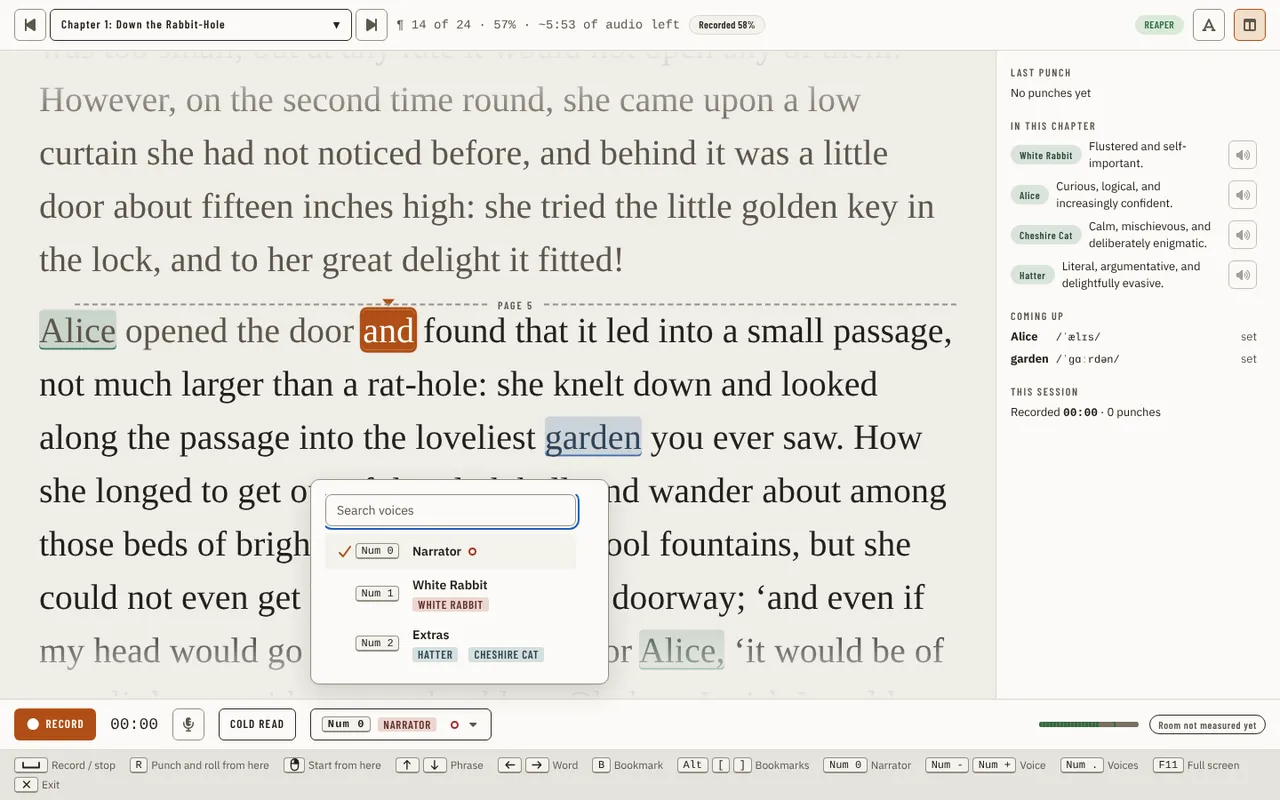
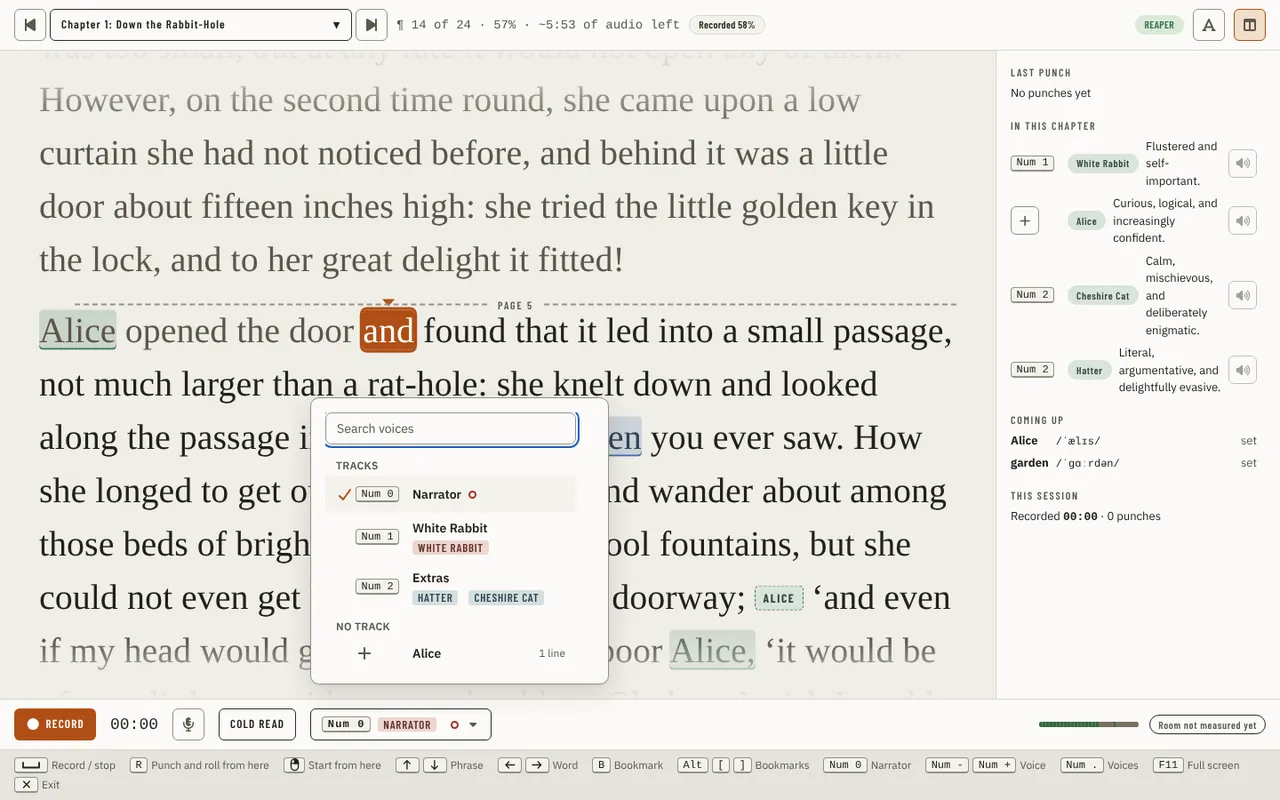
test(booth): pin stop-then-add in the harness and real REAPER; guide, catalog and decision C
Refs #2839

Claude-Session: https://claude.ai/code/session_01EBTykfDm4tMvg2DQjdoWjd

Changed region(s): [[0.7812, 0.1562, 1.0, 0.6562], [0.0312, 0.5, 0.5, 0.8438], [0.4688, 0.7188, 0.75, 0.8438]]

diff --git a/src/studio/ui/src/api/mockApi.ts b/src/studio/ui/src/api/mockApi.ts
@@ -4,6 +4,7 @@
 //
 // Each feature area's bindings live in their own file under mockHost/ (the state they share is mockHost/state.ts);
 // this file only puts them together, with the per-feature mocks beside it (teleprompterMock.ts, coverageMock.ts, ...).
+import type { GuideDialogueCue } from './contracts/storyBible';
 import type { Finding, ManuscriptParagraph, MeasureFileResult, NarrationApi } from '../types';
 import { WIRE_FINDINGS, WIRE_TELEPROMPTER_DEVICES, WIRE_TRACKS_PROJECT } from './mockFixtures';
 import { mockChapterTrackMatch } from './chapterTrackMatchMock';
@@ -172,7 +173,14 @@ export function createMockApi(
     initial.settings,
   );
   const manuscript = createManuscriptMock(s, initial, { withMeasurement: (chapter) => withMeasurement(chapter) });
-  const { manuscriptReady, hasImported: manuscriptImported } = manuscript;
+  const { manuscriptReady: textReady, hasImported: manuscriptImported } = manuscript;
+  // A Voice folders project's Chapter 1 also has a line Alice speaks, and no voice records her: the Booth's "No track" row and the
+  // speaker "Who is in Num N?" ticks (#2839). The cue is placed in the loaded text, so the manuscript is ready only once it is in.
+  const manuscriptReady = initial.voiceFolders
+    ? textReady.then(() => {
+        s.dialogueCues = [...s.dialogueCues, ...aliceSpeaks(s.paragraphs)];
+      })
+    : textReady;
   const credits = createCreditsMock(s, initial, { settings: settings.settings, manuscriptReady });
   // Every read of the chapter list holds the credits (a credits file is a chapter): the Production overview, the pages and the host agree.
   const chaptersWithCredits = async () => credits.withCreditsChapters(await manuscript.bindings.manuscriptChapters());
@@ -1041,4 +1049,28 @@ function createBackupsMock(daw: DawCapabilitiesApi, hasChapter: (chapterId: stri
     },
     dawBackups: () => Promise.resolve({ schemaVersion: 1, backups: table.list() }),
   };
+}
+
+/** Alice's "and even if my head would go through," in Chapter 1, attributed to her, as a cue the Booth reads as one line. */
+function aliceSpeaks(paragraphs: readonly ManuscriptParagraph[]): GuideDialogueCue[] {
+  const words = 'and even if my head would go through,';
+  const paragraph = paragraphs.find((each) => each.chapterId === 'chapter-1' && each.text.includes(words));
+  if (!paragraph) return [];
+  // The quotation marks around the words, whichever the text uses.
+  const start = paragraph.text.indexOf(words) - 1;
+  const quote = paragraph.text.slice(start, start + words.length + 2);
+  return [
+    {
+      id: 'cue-voices-alice',
+      chapterId: 'chapter-1',
+      paragraphId: paragraph.id,
+      quote_start: start,
+      quote_end: start + quote.length,
+      quote_text: quote,
+      speaker_entity_id: 'alice',
+      speaker_source: 'tag',
+      evidence: { chapterId: 'chapter-1', paragraphId: paragraph.id, excerpt: quote, tag: 'thought poor Alice' },
+      corrected: false,
+    },
+  ];
 }

diff --git a/src/studio/ui/src/interactionFeedback/teleprompter.ts b/src/studio/ui/src/interactionFeedback/teleprompter.ts
@@ -10,6 +10,10 @@ export const teleprompterFeedback: Record<string, FeedbackRow> = {
   'src/components/booth/voices/useBoothVoices.ts::boothVoiceGet#1': row('effect', 'file-io', 'na', 'na', 'ui', 'toast', 'na', 'ok', 'The voice the host records the chapter on, read with the tracks and again after a take stops, so the control shows the host\'s voice and not one the page assumed; a failed read is a toast and the voices are still listed.'),
   'src/components/booth/voices/useBoothVoices.ts::readAloudReaperState#1': row('effect', 'instant', 'na', 'na', 'ui', 'inline', 'na', 'ok', 'REAPER\'s arms on the chapter\'s voice, read with the voices, after a choice and when a take starts or stops, for the voice control\'s arm dot and its several-armed warning; a failed read shows neither, so no stale arm state is given as fact.'),
   'src/components/booth/voices/useBoothVoices.ts::boothVoiceSet#1': row('click', 'file-io', 'pending', 'pending', 'ui', 'toast', 'na', 'ok', 'A voice key, Num + or Num −, or a press in the voice list: the control is busy until the host answers, and a press meanwhile is sent once it does (the last one wins); during a take the DAW switches the recording (about 50 ms), and a refusal is a toast that keeps the voice.'),
+  // "Who is in Num N?" (phase 5, #2839; src/studio/desktop/boothvoiceadd.go)
+  'src/components/booth/voices/useBoothVoices.ts::boothVoiceAdd#1': row('click', 'file-io', 'pending', 'pending', 'ui', 'toast', 'na', 'ok', 'The dialog\'s Add track: the button is busy until the host answers (REAPER adds the track in one undo point); the new voice is then listed and chosen and the dialog closes, and a refusal is a toast that keeps the dialog open with what was typed.'),
+  'src/components/booth/voices/useBoothVoices.ts::voiceTracksGet#1': row('effect', 'file-io', 'na', 'na', 'ui', 'toast', 'na', 'ok', 'The voice setup read again after a track was added, so its characters show on the new voice; a failed read is a toast that says the track was added.'),
+  'src/components/booth/voices/useBoothVoices.ts::voiceTracksSetCharacters#1': row('click', 'file-io', 'pending', 'pending', 'ui', 'toast', 'na', 'ok', 'The dialog\'s Use this track: the ticked characters are added to the track\'s and it is chosen; the button is busy until both answer, and a refusal is a toast that keeps the dialog open.'),
   // The reading session core is `useTeleprompterSession`, mounted by the Booth page and the Companion host.
   // booth/passagemap/usePassageMapWriter.ts: the marks of a take are sent once, at stop; a refused run is kept, toasted once and sent again at the next stop or flush.
   // booth/pickups/usePickupSession.ts: the pickup session (SN-O82), opened from Pickups at a pickup.

diff --git a/src/studio/ui/tests/visual/catalog/booth.ts b/src/studio/ui/tests/visual/catalog/booth.ts
@@ -22,8 +22,22 @@ export const boothStates: StateEntry[] = [
     page: 'booth',
     state: 'voices-list',
     description:
-      "Booth's voice list open from the voice control (?mockVoiceFolders=1, Num . or a press): a search box over the folder's voices in REAPER's order with their keys, Narrator (checked, the voice the take records on), White Rabbit (its character by name) and Extras (Hatter and Cheshire Cat, assigned)",
+      "Booth's voice list open from the voice control (?mockVoiceFolders=1, Num . or a press): a search box over the folder's voices in REAPER's order with their keys, Narrator (checked, the voice the take records on), White Rabbit (its character by name) and Extras (Hatter and Cheshire Cat, assigned), then under No track the chapter's speakers no voice records, each with its lines (#2839)",
     ...POPUP_ANCHORED_AT_FIRST_WIDTH,
+    ...REFLOW,
+  },
+  {
+    page: 'booth',
+    state: 'voices-who-is-in',
+    description:
+      "Booth's \"Who is in Num 7?\" (?mockVoiceFolders=1, Num 7 pressed with three voices, #2839): how to record them (A new track, its key Num 3; An existing track; The Narrator, this time, Num 0), the chapter's characters with their lines or their key and the speakers with no track ticked, the rest of the book in its own capped group, and the track name (the one character's, or Extras); Cancel and Add track",
+    ...REFLOW,
+  },
+  {
+    page: 'booth',
+    state: 'voices-who-records',
+    description:
+      'Booth\'s "Who records …?" for a character with no track (?mockVoiceFolders=1, a "No track" row picked in the voice list while stopped): the same three answers for that one character, the new track named after it; Cancel and Add track',
     ...REFLOW,
   },
   {

diff --git a/src/studio/ui/src/components/booth/voices/WhoIsInDialog.tsx b/src/studio/ui/src/components/booth/voices/WhoIsInDialog.tsx
@@ -73,7 +73,7 @@ function CharacterGroup({
       <div
         role="group"
         aria-label={label}
-        className="flex max-h-[11rem] flex-col gap-2 overflow-auto rounded-[var(--radius-button)] border border-[var(--line)] p-2"
+        className="flex max-h-[11rem] flex-col gap-2 overflow-auto rounded-[var(--radius-button)] border border-[var(--border)] p-2"
       >
         {characters.map((character) => (
           <CharacterRow key={character.id} character={character} ticked={ticked.has(character.id)} onTick={(next) => onTick(character.id, next)} />
@@ -100,7 +100,7 @@ export function WhoIsInDialog({ ask, voices, cast, onAdd, onUse, onNarrator, onC
   const tickedCharacters = everyone.filter((character, at) => ticked.has(character.id) && everyone.findIndex((each) => each.id === character.id) === at);
   // The name follows the ticks until the narrator types one.
   const [typed, setTyped] = useState<string | null>(null);
-  const name = typed ?? defaultTrackName(tickedCharacters);
+  const name = typed ?? defaultTrackName(tickedCharacters, voices);
   const [existing, setExisting] = useState(others[0]?.guid ?? '');
   const [busy, setBusy] = useState(false);
 
@@ -202,7 +202,7 @@ export function WhoIsInDialog({ ask, voices, cast, onAdd, onUse, onNarrator, onC
             <CharacterGroup label="Elsewhere in the book" characters={cast.elsewhere} ticked={ticked} onTick={tick} />
           </>
         ) : null}
-        {choice === 'new' ? <Field label="Track name" value={name} onChange={setTyped} error={nameProblem} /> : null}
+        {choice === 'new' ? <Field label="Track name" value={name} onChange={setTyped} error={nameProblem} autoFocus /> : null}
       </form>
     </Dialog>
   );

diff --git a/src/studio/ui/tests/visual/drivers/booth.ts b/src/studio/ui/tests/visual/drivers/booth.ts
@@ -126,6 +126,22 @@ export const boothDrivers: Record<string, Driver> = {
       .getByRole('option', { name: /Extras/ })
       .waitFor();
   },
+  'voices-who-is-in': async (page) => {
+    await readyToRecord(page, '?mockVoiceFolders=1');
+    await page.getByRole('button', { name: /^Voice:.*Narrator/ }).waitFor();
+    await page.keyboard.press('Numpad7');
+    await page.getByRole('dialog', { name: 'Who is in Num 7?' }).getByRole('textbox', { name: 'Track name' }).waitFor();
+  },
+  'voices-who-records': async (page) => {
+    await readyToRecord(page, '?mockVoiceFolders=1');
+    await page.getByRole('button', { name: /^Voice:.*Narrator/ }).click();
+    const list = page.getByRole('listbox', { name: 'Voices of this chapter' });
+    await list.getByRole('option').last().click();
+    await page
+      .getByRole('dialog', { name: /^Who records / })
+      .getByRole('textbox', { name: 'Track name' })
+      .waitFor();
+  },
   // The mixed manuscript's second chapter has a title and no subtitle, its third a subtitle long enough to wrap (applyMixedManuscriptMock).
   'heading-title-only': async (page) => {
     await openHeadings(page, 'A Message from the Author');

diff --git a/src/studio/ui/src/components/booth/voices/whoIsIn.ts b/src/studio/ui/src/components/booth/voices/whoIsIn.ts
@@ -57,9 +57,15 @@ export function keyForNewTrack(voices: readonly Voice[], name: string): string {
   return next <= 9 ? String(next) : '';
 }
 
-/** A new track's name: the character's when one is ticked, else "Extras" (the mock's shared track). */
-export function defaultTrackName(ticked: readonly Named[]): string {
-  return ticked.length === 1 && ticked[0].name.trim() !== '' ? ticked[0].name.trim() : 'Extras';
+/** A new track's name: the character's when one is ticked, else "Extras" (the mock's shared track), numbered past the names the chapter's
+ * voices have ("Extras 2"), so the default is never a name the folder already has. */
+export function defaultTrackName(ticked: readonly Named[], voices: readonly Pick<Voice, 'name'>[] = []): string {
+  const base = ticked.length === 1 && ticked[0].name.trim() !== '' ? ticked[0].name.trim() : 'Extras';
+  const taken = (name: string) => voices.some((voice) => same(voice.name, name));
+  if (!taken(base)) return base;
+  let n = 2;
+  while (taken(`${base} ${n}`)) n += 1;
+  return `${base} ${n}`;
 }
 
 /**

diff --git a/src/studio/ui/src/components/booth/voices/whoIsIn.test.ts b/src/studio/ui/src/components/booth/voices/whoIsIn.test.ts
@@ -86,6 +86,13 @@ describe('who is in it', () => {
     ).toBe('Extras');
   });
 
+  it('the default name is numbered past the names the chapter has, whatever their case and spaces', () => {
+    const named = [voice('2', ' extras '), voice('3', 'Extras 2'), voice('4', 'King of Hearts')];
+    expect(defaultTrackName([], named)).toBe('Extras 3');
+    expect(defaultTrackName([{ id: 'king', name: 'King of Hearts' }], named)).toBe('King of Hearts 2');
+    expect(defaultTrackName([{ id: 'cook', name: 'Cook' }], named)).toBe('Cook');
+  });
+
   it("an added voice the saved project lacks is the folder's last child; once saved it is listed once", () => {
     const tracks = [
       track('{F}', 'Chapter 1', 0, true),

diff --git a/src/studio/ui/src/api/mockHost/storyBible.ts b/src/studio/ui/src/api/mockHost/storyBible.ts
@@ -311,7 +311,11 @@ export function createStoryBibleMock(
         return setPronunciation(prior, { ...prior.alternate, chosen: true });
       });
     },
-    guideDialogueCues: async () => wireClone(s.dialogueCues),
+    guideDialogueCues: async () => {
+      // The cues are placed in the loaded text: a read before it is in waits for it, as the host reads cues of the manuscript it has.
+      await manuscriptReady;
+      return wireClone(s.dialogueCues);
+    },
     guideAttributeSpeakers: async () => {
       // The tag names the speaker, as the host's attribution reads it; a confirmed or edited line is never touched.
       const named = (tag: string) =>

diff --git a/src/studio/ui/src/components/booth/voices/useBoothVoices.ts b/src/studio/ui/src/components/booth/voices/useBoothVoices.ts
@@ -245,7 +245,7 @@ export function useBoothVoices({
         await voiceTracks
           .voiceTracksGet()
           .then(replace)
-          .catch(() => setRevision((count) => count + 1));
+          .catch((reason: unknown) => notify(`The track was added, but its characters could not be read back: ${describeApiError(reason)}`, 'error'));
         setRevision((count) => count + 1);
         return true;
       } catch (reason: unknown) {

diff --git a/scripts/ci/real-reaper/scenarios_booth_voices.py b/scripts/ci/real-reaper/scenarios_booth_voices.py
@@ -697,3 +697,45 @@ def track_create_in_folder(env: Env) -> str:
     stale = env.send("track_create", "Ghost", "{00000000-0000-4000-8000-0000000000DE}", until={"TRACK_CREATED", "TRACK_STALE"})
     assert stale[-1][0] == "TRACK_STALE" and len(structure(env)) == count + 1, f"stale parent answered {stale}"
     return f"created at index {created[3]}, undo {undo!r}; after save and reload {[(r['name'], r['delta']) for r in rows]}; ISBUS {isbus_lines(env)}; Veyra input {veyra['input']}; a gone parent answered TRACK_STALE and added nothing"
+
+
+@scenario(
+    "booth_voices",
+    "record_stop, track_create",
+    "voices phase 5 (#2839): a key with no track during a take. track_create is refused while REAPER records; the Booth stops the take with "
+    "record_stop (the take is kept as an item on its voice) and only then adds the voice as the folder's last child, a second undo point: "
+    "undoing it takes the new track and leaves the take",
+    needs_audio=True,
+)
+def voice_added_after_stop(env: Env) -> str:
+    g = folder_book(env)
+    env.lua("reaper.SetEditCurPos(2, false, false) return true")
+    env.ok("arm_only", g["Narrator"], until="ARMED")
+    env.ok("record_start", g["Narrator"], until="RECORD_STARTED")
+    env.wait_for(lambda: position(env) > 3.2, timeout=8, what="the take to run over a second")
+    count = len(structure(env))
+    refused = env.refused("track_create", "King of Hearts", g["Chapter 3"], until="TRACK_CREATED")
+    assert "recording" in refused[2].lower() and len(structure(env)) == count, f"an add during the take answered {refused}"
+    env.ok("record_stop", until="RECORD_STOPPED")
+    env.wait_for(lambda: play_state(env) == 0, what="REAPER to stop")
+    taken = per_track(settled_items(env, 1))
+    assert list(taken) == ["Narrator"] and len(taken["Narrator"]) == 1, f"items per track after the stop {taken}"
+    created = env.ok("track_create", "King of Hearts", g["Chapter 3"], until="TRACK_CREATED")
+    assert created[3:5] == ["4", "King of Hearts"], f"created {created}"
+    shape = [(r["name"], r["delta"], r["parent"]) for r in structure(env)]
+    assert shape == [
+        ("Chapter 3", 1, ""),
+        ("Narrator", 0, "Chapter 3"),
+        ("Veyra", 0, "Chapter 3"),
+        ("Drone", 0, "Chapter 3"),
+        ("King of Hearts", -1, "Chapter 3"),
+        ("Chapter 4", 0, ""),
+    ], shape
+    assert per_track(env.snapshot()["items"]) == taken, "adding the voice moved or dropped the take"
+    undo = env.lua("return reaper.Undo_CanUndo2(0) or ''")
+    env.lua("reaper.Undo_DoUndo2(0) return true")
+    after_undo = [r["name"] for r in structure(env)]
+    assert after_undo == ["Chapter 3", "Narrator", "Veyra", "Drone", "Chapter 4"], after_undo
+    kept = per_track(env.snapshot()["items"])
+    assert kept == taken, f"undoing the add took the take too: {kept}"
+    return f"refused during the take {refused[2]!r}; take {taken}; added {shape}; undo {undo!r} left {after_undo} and the take {kept}"

diff --git a/docs/prds/booth-voice-tracks.prd.md b/docs/prds/booth-voice-tracks.prd.md
@@ -94,7 +94,7 @@ No new trust boundary: `voice-tracks.json` is written and read back by the host 
 | 2 | Union reads | `chapter_track_state` children; Editing play solos the folder; live items, word times, recording check read the union | 2a complete (#2783: bridge, Editing play, live items, word times); 2b pending (recording check from the saved project) | with 3 | 1 |
 | 3 | Layout and assignments | `voice-tracks.json` (layout and assignments), folder links, Engine Voices card, nested `track_create` | 3a complete (#2791, nested `track_create`); 3b and 3c in review (#2799) | with 2 | 1 |
 | 4 | Booth voices | Catalog rows, voice control and list, `switch_voice`, stop-guard fix, the no-track rule for a key (its notice and dialog are phase 5) | 4a complete (#2811: `switch_voice` in the bridge, stop-guard fix); 4b in review (the Booth's keys, control and list, `BoothVoiceSet`) | no | 2, 3 |
-| 5 | Who is in it | The dialog on an empty key, making a chapter's missing tracks, the Voices card's "No track" row and its make-track press, the side list's voice keys and add-track press (decision B), the record control's notice for a character with no track (decision 5) and its after-stop offers, `BoothVoices` | pending | no | 4 |
+| 5 | Who is in it | The dialog on an empty key, stopped or recording (a take is stopped first, #2839), making a chapter's missing tracks, the Voices card's "No track" row and its make-track press, the side list's voice keys and add-track press (decision B), the record control's notice for a character with no track (decision 5) and its after-stop offers, `BoothVoices` | 5a in review (#2839: the dialog, the stop before it, `BoothVoiceAdd`, the voice list's "No track" rows, the side list's keys and add-track press, the notice and its after-stop offers); the Voices card's "No track" row pending | no | 4 |
 
 ### Phase details
 
@@ -110,6 +110,8 @@ Each phase follows the CLAUDE.md workflow: harness test first for each bridge ch
 Phase 3 as built (#2799): the layout is kept in `voice-tracks.json` with the assignments it governs, not in `settings.json`. The layout switch is Chapter sync's Layout row, as the mock draws it; while Chapter sync draws nothing (consent not yet given) the Voices card carries it. The Voices card's "No track" row and `BoothVoices` move to phase 5, with the make-track press that needs them.
 
 Phase 4 as built: the Booth records a folder-linked chapter on its chosen voice, the track named Narrator until the narrator chooses another, and the host remembers the choice per chapter until the app closes or another project opens. `BoothVoiceSet(chapterId, trackGuid)` chooses a voice, refused unless the GUID is a direct child of the chapter's folder; during a take this app started it sends `switch_voice`. `BoothVoiceGet(chapterId)` reads the voice the host records on, so the control never shows a voice the page assumed, and `ReadAloudReaperState` reads REAPER's arms on that voice rather than the folder: the control's arm dot and its several-armed warning come from that read (during the app's own take, from the start and switch answers). The voice list is built in the page from the tracks, the links and the Story Bible, as the Voices card is; `BoothVoices` and its `unmatched` list stay in phase 5. The list is the speaker picker's search-and-list body, extracted as the `SearchList` primitive. Num 0 to Num 9 choose a voice by key, Num + and Num − step through them and Num . opens the list, so text size keeps only = and -. A key with no track says "No track on Num N." and changes nothing, while stopped too: the "Who is in it?" dialog, the side list's add-track press and the notice for a character with no track while recording move to phase 5 with the track making they need.
+
+Phase 5a as built (#2839, owner change of decision C, 2026-11-03): a number key with no track behind it opens "Who is in Num N?", stopped or recording. During this app's take the Booth first stops the take as its Stop press does (the start guard included); a key pressed while that stop is answered replaces the first (a held key asks once), a key with a track is then chosen instead, and a stop that does not go through asks nothing. While the dialog is open the voice keys do nothing. The dialog ticks the chapter's speakers with no track, lists the chapter's characters (those with lines first, each with its key or its lines) and the rest of the book, and offers a new track (named for the one character ticked, else Extras; it takes the next free key), an existing track, or the Narrator this time. `BoothVoiceAdd(chapterId, name, characterIds)` adds the track as the folder's last child (`track_create` with a parent), adds the characters to its name in `voice-tracks.json` and chooses it; it is refused during this app's take, for a blank name or a name a voice of the folder has. The saved project does not hold the track until the narrator saves in the DAW, so the host keeps the voices it added for the session and `BoothVoiceGet` lists them (`added`); a record start arms them. The voice list gains a "No track" section, the side list's "In this chapter" rows gain the voice key or an add-track press, and a character with no track picked during a take records on the Narrator voice with "King → Narrator" on the control and, after the stop, an add-track and a use-existing-track press. The "No track on Num N." toast is gone. The Voices card's "No track" row stays in phase 5.
 
 ## Decisions Log
 

diff --git a/docs/guides/using-the-app/booth.md b/docs/guides/using-the-app/booth.md
@@ -318,13 +318,37 @@ narrow the list by key, track or character, and press **Enter** or click a voice
 previous voice. During a take a voice key switches the recording at once and REAPER keeps recording: the take is one item on each voice
 and one undo point, and about a twentieth of a second at the switch is recorded on neither track, so press the key in a pause between
 lines. A key pressed before the last one is answered is sent next, so the voice you end on is the one you pressed last. A key with no track
-behind it changes nothing and says so. Each chapter keeps the voice you chose until you close the app or open another project, and the
+behind it asks who is in it ([below](#adding-a-voice-track)). Each chapter keeps the voice you chose until you close the app or open another project, and the
 control shows the voice the app will record on, also after you leave the Booth and come back. In a
 chapter that records on one track the voice keys say why they do nothing, and **=** and **-** still change the text size.
 
 ![Booth - the voice control on the record bar, with the voice keys among the key hints](../../images/ui/booth-voices.webp)
 
 ![Booth - the voice list: the chapter folder's voices with their keys and characters](../../images/ui/booth-voices-list.webp)
+
+#### Adding a voice track
+
+A number key with no track behind it opens **Who is in Num 7?**. During a take, the Booth first stops the take as **Stop** does, so what
+you recorded is kept on the voice it recorded on, and then asks. If you press another key before the take has stopped, the Booth uses
+that key, and a key with a track is then simply chosen. Choose how to record them:
+
+- **A new track**: tick the characters it is for. The chapter's characters come first, with their lines in the chapter or the key of the
+  voice that already records them, and the speakers with no track are ticked for you. The rest of the book follows. The name is the
+  character's when one is ticked, else **Extras**; type another if you like. **Add track** adds it in REAPER as the folder's last track,
+  so it takes the next free key, not necessarily the one you pressed, and chooses it for the next take.
+- **An existing track**: the ticked characters are added to the track you pick, and it is chosen.
+- **The Narrator, this time**: the Narrator track is chosen and nothing is assigned.
+
+A new track is one undo point in REAPER, after the take's own, so undoing it never takes the recording with it. The app lists the track
+at once. Save the project in REAPER to keep it: until you do, the saved project does not have it, though the Booth records on it.
+
+The voice list shows the chapter's speakers with no track under **No track**, each with its lines. Choosing one while stopped asks
+**Who records the King of Hearts?**, with the same three answers. During a take it asks nothing: the Narrator track records the
+character at once, and the voice control shows **King of Hearts → Narrator** with a warning sign. After the take, two buttons beside it
+add a track for the character or put it on an existing one. In the side panel, **In this chapter** shows each character's voice key, or
+an add-track button for a speaker with no track.
+
+![Booth - Who is in Num 7?: the chapter's characters to tick, a new track's name and key, an existing track or the Narrator](../../images/ui/booth-voices-who-is-in.webp)
 
 ## Where the Booth opens in your DAW
 
